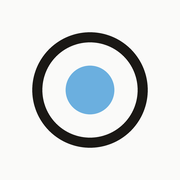
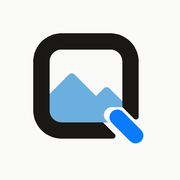
feat(ui): 更新 Q 形品牌图标并添加矢量动画
统一导航、README、favicon、Apple 图标与分享卡片的 Q 形标志。

新增同源 SVG 动画和 README 兼容 GIF，桌面通过悬停或键盘焦点触发，触屏载入时播放一轮，并遵循减少动态效果设置。

验证：Ruff 格式与检查通过，全量 425 项测试通过，桌面与手机动画、键盘导航及减少动态效果检查通过。

Changed region(s): [[0.1667, 0.1667, 0.8333, 0.8333]]

diff --git a/src/qiuyuantu/templates/base.html b/src/qiuyuantu/templates/base.html
@@ -27,15 +27,15 @@
 <meta name="twitter:description" content="{{ description }}">
 <meta name="twitter:image" content="{{ og_image }}">
 <script type="application/ld+json">{{ json_ld | safe }}</script>
-<link rel="icon" href="/favicon.ico" sizes="48x48">
-<link rel="icon" href="/favicon.svg" type="image/svg+xml">
-<link rel="apple-touch-icon" href="/apple-touch-icon.png">
+<link rel="icon" href="{{ static_url('favicon.ico') }}" sizes="48x48">
+<link rel="icon" href="{{ static_url('favicon.svg') }}" type="image/svg+xml">
+<link rel="apple-touch-icon" href="{{ static_url('apple-touch-icon.png') }}">
 <link rel="preload" href="{{ static_url('noto-serif-sc-900.woff2') }}" as="font" type="font/woff2" crossorigin>
 <link rel="preload" href="{{ static_url('noto-serif-sc-700.woff2') }}" as="font" type="font/woff2" crossorigin>
 <link rel="preload" href="{{ static_url('inter.woff2') }}" as="font" type="font/woff2" crossorigin>
 <link rel="preload" href="{{ static_url('playfair-italic.woff2') }}" as="font" type="font/woff2" crossorigin>
 <link rel="preload" href="{{ static_url('jetbrains-mono.woff2') }}" as="font" type="font/woff2" crossorigin>
-{# 两个字表 CSS 直接内联：省掉首屏两个阻塞请求（跨境 RTT 一趟就是几百毫秒）。
+{# Inline font, brand motion and site styles to avoid blocking first paint.
    注意 preload 的字体 URL 必须和内联 CSS 里 @font-face 的 src 完全一致（含 ?v=，两边都由
    static_url 生成），否则浏览器会当作两个资源，预加载整个白做 #}
 <style>{{ critical_css | safe }}</style>
@@ -50,7 +50,7 @@
 
 <nav class="nav">
   <a class="brand" href="/" aria-label="求原图 首页">
-    <svg viewBox="0 0 32 32" aria-hidden="true"><circle cx="16" cy="16" r="13" fill="none" stroke="currentColor" stroke-width="2.5"/><circle cx="16" cy="16" r="6" fill="#6BAFDF"/></svg>
+    {% include '_brand_icon.html' %}
     求原图
   </a>
   <div class="nav-links">

diff --git a/src/qiuyuantu/templates/_brand_icon.html b/src/qiuyuantu/templates/_brand_icon.html
@@ -1,0 +1,6 @@
+{# Generated by scripts/make_icons.py; shared with favicon and README. #}
+<svg viewBox="0 0 32 32" aria-hidden="true">
+  <path class="picture" fill="#6BAFDF" d="M6 17 L10.8 12.2 C11.2 11.8 11.8 11.8 12.2 12.2 L17.5 17.5 L19.4 15.6 C19.8 15.2 20.4 15.2 20.8 15.6 L24 18.8 L24 20.2 L21.5 20.2 C19.7 20.2 18.7 22.2 20 23.5 L20.5 24 L9 24 C7.34 24 6 22.66 6 21 Z"/>
+  <path class="frame" fill="currentColor" d="M21.6 28 L9 28 C5.13 28 2 24.87 2 21 L2 9 C2 5.13 5.13 2 9 2 L21 2 C24.87 2 28 5.13 28 9 L28 22.6 C28 23.2 27.3 23.5 26.9 23.1 L24 20.2 L24 9 C24 7.34 22.66 6 21 6 L9 6 C7.34 6 6 7.34 6 9 L6 21 C6 22.66 7.34 24 9 24 L19.2 24 L22.1 26.9 C22.5 27.3 22.2 28 21.6 28 Z"/>
+  <path class="tail" fill="#087BFF" d="M21.4 21.4 C22.15 20.65 23.35 20.65 24.1 21.4 L28.6 25.9 C29.35 26.65 29.35 27.85 28.6 28.6 C27.85 29.35 26.65 29.35 25.9 28.6 L21.4 24.1 C20.65 23.35 20.65 22.15 21.4 21.4 Z"/>
+</svg>

diff --git a/src/qiuyuantu/static/brand-motion.css b/src/qiuyuantu/static/brand-motion.css
@@ -1,0 +1,15 @@
+/* Generated by scripts/make_icons.py. */
+@keyframes q-picture{0%{transform:translateY(0px)}15%{transform:translateY(0px)}42%{transform:translateY(-1.5px)}68%{transform:translateY(0px)}100%{transform:translateY(0px)}}
+@keyframes q-tail{0%{transform:translate(0px,0px)}15%{transform:translate(-0.35px,-0.35px)}42%{transform:translate(1px,1px)}68%{transform:translate(0px,0px)}100%{transform:translate(0px,0px)}}
+@media (prefers-reduced-motion:no-preference){
+.brand:focus-visible .picture{animation:q-picture 1.2s linear 1;}
+.brand:focus-visible .tail{animation:q-tail 1.2s linear 1;}
+@media (hover:hover){
+.brand:hover .picture{animation:q-picture 1.2s linear 1;}
+.brand:hover .tail{animation:q-tail 1.2s linear 1;}
+}
+@media (hover:none){
+.brand .picture{animation:q-picture 2.4s linear 1;}
+.brand .tail{animation:q-tail 2.4s linear 1;}
+}
+}

diff --git a/scripts/make_icons.py b/scripts/make_icons.py
@@ -1,7 +1,7 @@
-"""生成站点图标：favicon.ico / favicon.svg / apple-touch-icon.png，写到 static/ 下。
+"""生成 Q 形图片标志：README 动画、导航、favicon 和 Apple 主屏图标共用路径与动效。
 
-图案就是页面上一直用的那个：深色圆环 + 天蓝圆点（32×32 画布，环半径 13、线宽 2.5，点半径 6）。
-改了图案重新跑一遍：uv run --no-project --with pillow python scripts/make_icons.py
+在仓库虚拟环境中运行：python scripts/make_icons.py。
+修改 PATHS 后重新生成，避免不同入口的图标形状不一致；坐标基于 32×32 画布。
 """
 
 from __future__ import annotations
@@ -10,40 +10,204 @@ from pathlib import Path
 
 from PIL import Image, ImageDraw
 
-STATIC = Path(__file__).resolve().parent.parent / "src" / "qiuyuantu" / "static"
+ROOT = Path(__file__).resolve().parent.parent
+STATIC = ROOT / "src" / "qiuyuantu" / "static"
 INK = "#1a1815"
 SKY = "#6BAFDF"
+BLUE = "#087BFF"
 PAPER = "#fafaf9"  # 站点底色（site.css 的 --cold）；iOS 主屏图标不认透明，要垫底色
+PART_NAMES = {SKY: "picture", INK: "frame", BLUE: "tail"}
+# 时间比例、图片纵向位移、Q 尾笔沿对角线位移；首尾一致，播放后回到静态标志。
+MOTION = ((0, 0, 0), (0.15, 0, -0.35), (0.42, -1.5, 1), (0.68, 0, 0), (1, 0, 0))
+MOTION_SECONDS = 2.4
 
-# 暗色标签栏上深色圆环看不见，跟着系统配色换成浅色
-SVG = f"""<svg xmlns="http://www.w3.org/2000/svg" viewBox="0 0 32 32">
-<style>.ring{{stroke:{INK}}}@media (prefers-color-scheme:dark){{.ring{{stroke:{PAPER}}}}}</style>
-<circle class="ring" cx="16" cy="16" r="13" fill="none" stroke-width="2.5"/>
-<circle cx="16" cy="16" r="6" fill="{SKY}"/>
-</svg>
-"""
+# 三次贝塞尔控制点同时用于 SVG 和位图；位图在放大画布上采样曲线后抗锯齿缩小。
+PATHS = (
+    (
+        SKY,
+        (
+            ("M", (6, 17)),
+            ("L", (10.8, 12.2)),
+            ("C", (11.2, 11.8, 11.8, 11.8, 12.2, 12.2)),
+            ("L", (17.5, 17.5)),
+            ("L", (19.4, 15.6)),
+            ("C", (19.8, 15.2, 20.4, 15.2, 20.8, 15.6)),
+            ("L", (24, 18.8)),
+            ("L", (24, 20.2)),
+            ("L", (21.5, 20.2)),
+            ("C", (19.7, 20.2, 18.7, 22.2, 20, 23.5)),
+            ("L", (20.5, 24)),
+            ("L", (9, 24)),
+            ("C", (7.34, 24, 6, 22.66, 6, 21)),
+            ("Z", ()),
+        ),
+    ),
+    (
+        INK,
+        (
+            ("M", (21.6, 28)),
+            ("L", (9, 28)),
+            ("C", (5.13, 28, 2, 24.87, 2, 21)),
+            ("L", (2, 9)),
+            ("C", (2, 5.13, 5.13, 2, 9, 2)),
+            ("L", (21, 2)),
+            ("C", (24.87, 2, 28, 5.13, 28, 9)),
+            ("L", (28, 22.6)),
+            ("C", (28, 23.2, 27.3, 23.5, 26.9, 23.1)),
+            ("L", (24, 20.2)),
+            ("L", (24, 9)),
+            ("C", (24, 7.34, 22.66, 6, 21, 6)),
+            ("L", (9, 6)),
+            ("C", (7.34, 6, 6, 7.34, 6, 9)),
+            ("L", (6, 21)),
+            ("C", (6, 22.66, 7.34, 24, 9, 24)),
+            ("L", (19.2, 24)),
+            ("L", (22.1, 26.9)),
+            ("C", (22.5, 27.3, 22.2, 28, 21.6, 28)),
+            ("Z", ()),
+        ),
+    ),
+    (
+        BLUE,
+        (
+            ("M", (21.4, 21.4)),
+            ("C", (22.15, 20.65, 23.35, 20.65, 24.1, 21.4)),
+            ("L", (28.6, 25.9)),
+            ("C", (29.35, 26.65, 29.35, 27.85, 28.6, 28.6)),
+            ("C", (27.85, 29.35, 26.65, 29.35, 25.9, 28.6)),
+            ("L", (21.4, 24.1)),
+            ("C", (20.65, 23.35, 20.65, 22.15, 21.4, 21.4)),
+            ("Z", ()),
+        ),
+    ),
+)
 
 
-def draw(size: int, background: str | None = None, scale: float = 1.0) -> Image.Image:
+def svg_paths(*, navigation: bool = False) -> str:
+    paths = []
+    for color, commands in PATHS:
+        data = " ".join(command + " ".join(f"{value:g}" for value in values) for command, values in commands)
+        fill = "currentColor" if navigation and color == INK else color
+        paths.append(f'  <path class="{PART_NAMES[color]}" fill="{fill}" d="{data}"/>')
+    return "\n".join(paths)
+
+
+def motion_keyframes() -> str:
+    picture, tail = [], []
+    for offset, dy, shift in MOTION:
+        picture.append(f"{offset * 100:g}%{{transform:translateY({dy:g}px)}}")
+        tail.append(f"{offset * 100:g}%{{transform:translate({shift:g}px,{shift:g}px)}}")
+    return "\n".join(("@keyframes q-picture{" + "".join(picture) + "}", "@keyframes q-tail{" + "".join(tail) + "}"))
+
+
+def motion_rules(selector: str, seconds: float) -> str:
+    return "\n".join(f"{selector} .{part}{{animation:q-{part} {seconds:g}s linear 1;}}" for part in ("picture", "tail"))
+
+
+def motion_position(progress: float) -> dict[str, tuple[float, float]]:
+    for start, end in zip(MOTION, MOTION[1:], strict=False):
+        if progress <= end[0]:
+            fraction = max(0, (progress - start[0]) / (end[0] - start[0]))
+            dy = start[1] + (end[1] - start[1]) * fraction
+            shift = start[2] + (end[2] - start[2]) * fraction
+            return {"picture": (0, dy), "tail": (shift, shift)}
+    return {}
+
+
+def curve_points(start: tuple[float, float], values: tuple[float, ...]) -> list[tuple[float, float]]:
+    points = (start, values[:2], values[2:4], values[4:])
+    result = []
+    for step in range(1, 25):
+        t = step / 24
+        weights = ((1 - t) ** 3, 3 * (1 - t) ** 2 * t, 3 * (1 - t) * t**2, t**3)
+        result.append(
+            tuple(sum(point[axis] * weight for point, weight in zip(points, weights, strict=True)) for axis in (0, 1))
+        )
+    return result
+
+
+def polygon(commands: tuple) -> list[tuple[float, float]]:
+    points = []
+    for command, values in commands:
+        if command in {"M", "L"}:
+            points.append(values)
+        elif command == "C":
+            points.extend(curve_points(points[-1], values))
+    return points
+
+
+def draw(size: int, background: str | None = None, scale: float = 1.0, progress: float | None = None) -> Image.Image:
     """按 32 单位的画布画，先放大 8 倍再缩小，边缘才平滑。scale < 1 时图案居中缩小、四周留白。"""
     big = size * 8
     img = Image.new("RGBA", (big, big), background or (0, 0, 0, 0))
     pen = ImageDraw.Draw(img)
     unit = big / 32 * scale
     center = big / 2
+    offsets = motion_position(progress) if progress is not None else {}
 
-    def circle(radius: float, **style) -> None:
-        r = radius * unit
-        pen.ellipse((center - r, center - r, center + r, center + r), **style)
-
-    # 圆环：线宽 2.5 以 r=13 为中线，外沿 14.25、内沿 11.75
-    circle(13 + 1.25, outline=INK, width=round(2.5 * unit))
-    circle(6, fill=SKY)
+    for color, commands in PATHS:
+        dx, dy = offsets.get(PART_NAMES[color], (0, 0))
+        points = [(center + (x + dx - 16) * unit, center + (y + dy - 16) * unit) for x, y in polygon(commands)]
+        pen.polygon(points, fill=color)
     return img.resize((size, size), Image.LANCZOS)
 
 
+def write_motion_assets(paths: str) -> None:
+    keyframes = motion_keyframes()
+    svg_style = (
+        keyframes + "\n@media (prefers-reduced-motion:no-preference){\n" + motion_rules("svg", MOTION_SECONDS) + "\n}"
+    )
+    (ROOT / "docs" / "logo-animated.svg").write_text(
+        '<svg xmlns="http://www.w3.org/2000/svg" width="96" height="96" '
+        'viewBox="0 0 32 32" role="img" aria-label="求原图">\n'
+        f"<style>\n{svg_style}\n</style>\n{paths}\n</svg>\n",
+        encoding="utf-8",
+    )
+    css = (
+        "/* Generated by scripts/make_icons.py. */\n" + keyframes + "\n"
+        "@media (prefers-reduced-motion:no-preference){\n" + motion_rules(".brand:focus-visible", 1.2) + "\n"
+        "@media (hover:hover){\n" + motion_rules(".brand:hover", 1.2) + "\n}\n"
+        "@media (hover:none){\n" + motion_rules(".brand", MOTION_SECONDS) + "\n}\n}\n"
+    )
+    (STATIC / "brand-motion.css").write_text(css, encoding="utf-8")
+    write_readme_gif()
+
+
+def write_readme_gif() -> None:
+    # GIF 不支持 SVG 动画或透明半色调；统一暖底与调色板，避免缩放后边缘闪烁。
+    frames = [draw(144, background="#f5f1ea", progress=step / 59).convert("RGB") for step in range(60)]
+    palette = frames[0].convert("P", palette=Image.Palette.ADAPTIVE, colors=128)
+    frames = [frame.quantize(palette=palette, dither=Image.Dither.NONE) for frame in frames]
+    # 不写 loop 扩展，只播放一轮；减少动态效果时由 README 的 picture 改用静态 SVG。
+    frames[0].save(
+        ROOT / "docs" / "logo-animated.gif",
+        save_all=True,
+        append_images=frames[1:],
+        duration=round(MOTION_SECONDS * 1000 / len(frames)),
+        optimize=False,
+        disposal=1,
+    )
+
+
 def main() -> None:
-    (STATIC / "favicon.svg").write_text(SVG, encoding="utf-8")
+    paths = svg_paths()
+    write_motion_assets(paths)
+    # 暗色标签栏自动换浅色外框，图片与 Q 尾笔保留品牌色。
+    dark = f"<style>@media (prefers-color-scheme:dark){{.frame{{fill:{PAPER}}}}}</style>"
+    (STATIC / "favicon.svg").write_text(
+        f'<svg xmlns="http://www.w3.org/2000/svg" viewBox="0 0 32 32">\n{dark}\n{paths}\n</svg>\n',
+        encoding="utf-8",
+    )
+    (ROOT / "docs" / "logo.svg").write_text(
+        '<svg xmlns="http://www.w3.org/2000/svg" width="96" height="96" '
+        f'viewBox="0 0 32 32" role="img" aria-label="求原图">\n{paths}\n</svg>\n',
+        encoding="utf-8",
+    )
+    (STATIC.parent / "templates" / "_brand_icon.html").write_text(
+        "{# Generated by scripts/make_icons.py; shared with favicon and README. #}\n"
+        f'<svg viewBox="0 0 32 32" aria-hidden="true">\n{svg_paths(navigation=True)}\n</svg>\n',
+        encoding="utf-8",
+    )
     # 百度搜索结果的站点图标只读 /favicon.ico；Google 要 48 的倍数
     draw(48).save(STATIC / "favicon.ico", sizes=[(16, 16), (32, 32), (48, 48)])
     draw(180, background=PAPER, scale=0.72).save(STATIC / "apple-touch-icon.png", optimize=True)

diff --git a/src/qiuyuantu/web/rendering.py b/src/qiuyuantu/web/rendering.py
@@ -84,11 +84,13 @@ templates.env.filters.update(bjtime=status.bj_time, daylabel=status.day_label, s
 
 
 def _critical_css() -> str:
-    """fonts.css + site.css 原文，内联进 <head>：省掉首屏两个渲染阻塞请求。
+    """字体、品牌动效与页面 CSS 原文，内联进 <head>：避免首屏渲染阻塞请求。
     跨境访问一次 RTT 就是几百毫秒，且 @font-face 随 HTML 到达后 woff2 才能开始
     并行下载——之前字体被串在 fonts.css 的发现链上。文件在部署时随镜像更新，
     进程启动读一次即可。字体 URL 换成带版本的，和 base.html 的 preload 一致。"""
-    css = "".join((STATIC_DIR / name).read_text(encoding="utf-8") for name in ("fonts.css", "site.css"))
+    css = "".join(
+        (STATIC_DIR / name).read_text(encoding="utf-8") for name in ("fonts.css", "brand-motion.css", "site.css")
+    )
     return re.sub(r"url\(/static/([^)?]+)\)", lambda m: f"url({static_url(m.group(1))})", css)
 
 

diff --git a/tests/test_seo_routes.py b/tests/test_seo_routes.py
@@ -39,9 +39,13 @@ def test_head_does_not_count_as_a_page_view(client, monkeypatch):
     [("/favicon.ico", "image/x-icon"), ("/favicon.svg", "image/svg+xml"), ("/apple-touch-icon.png", "image/png")],
 )
 def test_root_icons(client, path, content_type):
+    from qiuyuantu.web.rendering import static_url
+
     r = client.get(path)
     assert r.status_code == 200 and r.headers["content-type"].startswith(content_type) and r.content
-    assert f'href="{path}"' in client.get("/").text
+    versioned = static_url(path.removeprefix("/"))
+    assert f'href="{versioned}"' in client.get("/").text
+    assert client.get(versioned).content == r.content
 
 
 @pytest.mark.parametrize(

diff --git a/AGENTS.md b/AGENTS.md
@@ -31,6 +31,7 @@
 ## 产品与界面设计
 
 - 延续现有编辑风格：冷暖浅底、深色正文、衬线标题、无衬线操作文字、等宽技术信息，蓝色强调搭配少量薄荷绿和橙色。优先复用 [site.css](src/qiuyuantu/static/site.css) 的变量、`.wrap`、`.btn`、`.card` 和现有间距层级。
+- 品牌图标采用图片与字母 Q 结合的标志。修改 `scripts/make_icons.py` 中的路径或动效后运行该脚本，同步生成静态 / 动态 SVG、README 兼容 GIF、导航模板、品牌动效 CSS、favicon 和 Apple 主屏图标。README 动画播放一轮后静止，减少动态效果时改用静态 SVG；导航通过悬停或键盘焦点触发动效，触屏设备载入时播放一轮。SVG favicon 保留深色模式适配。
 - 页面围绕「粘贴 / 上传 → 解析 → 下载或转换」组织。让当前主要操作清楚可见，次要选项按需展开；新增功能延续现有组件与交互方式。
 - 中文文案简洁、自然，解释用户能做什么、当前状态和下一步。状态提示可沿用现有轻松语气，但阶段与进度必须来自实际事件；不要用等待时长伪造百分比，也不要展示内部服务、凭证或服务器路径。
 - 修改布局或交互后，在桌面和手机窄屏检查相关状态：空态、等待、成功、失败，以及清空 / 换链接。确认无意外横向溢出、遮挡或重复提交；旧请求和计时器不能覆盖新结果。

diff --git a/README.en.md b/README.en.md
@@ -1,6 +1,9 @@
 <div align="center">
 
-<img src="docs/logo.svg" width="72" alt="Qiuyuantu">
+<picture>
+  <source media="(prefers-reduced-motion: reduce)" srcset="docs/logo.svg">
+  <img src="docs/logo-animated.gif" width="72" height="72" alt="Qiuyuantu">
+</picture>
 
 # Qiuyuantu · 求原图
 

diff --git a/README.md b/README.md
@@ -1,6 +1,9 @@
 <div align="center">
 
-<img src="docs/logo.svg" width="72" alt="求原图">
+<picture>
+  <source media="(prefers-reduced-motion: reduce)" srcset="docs/logo.svg">
+  <img src="docs/logo-animated.gif" width="72" height="72" alt="求原图">
+</picture>
 
 # 求原图
 
